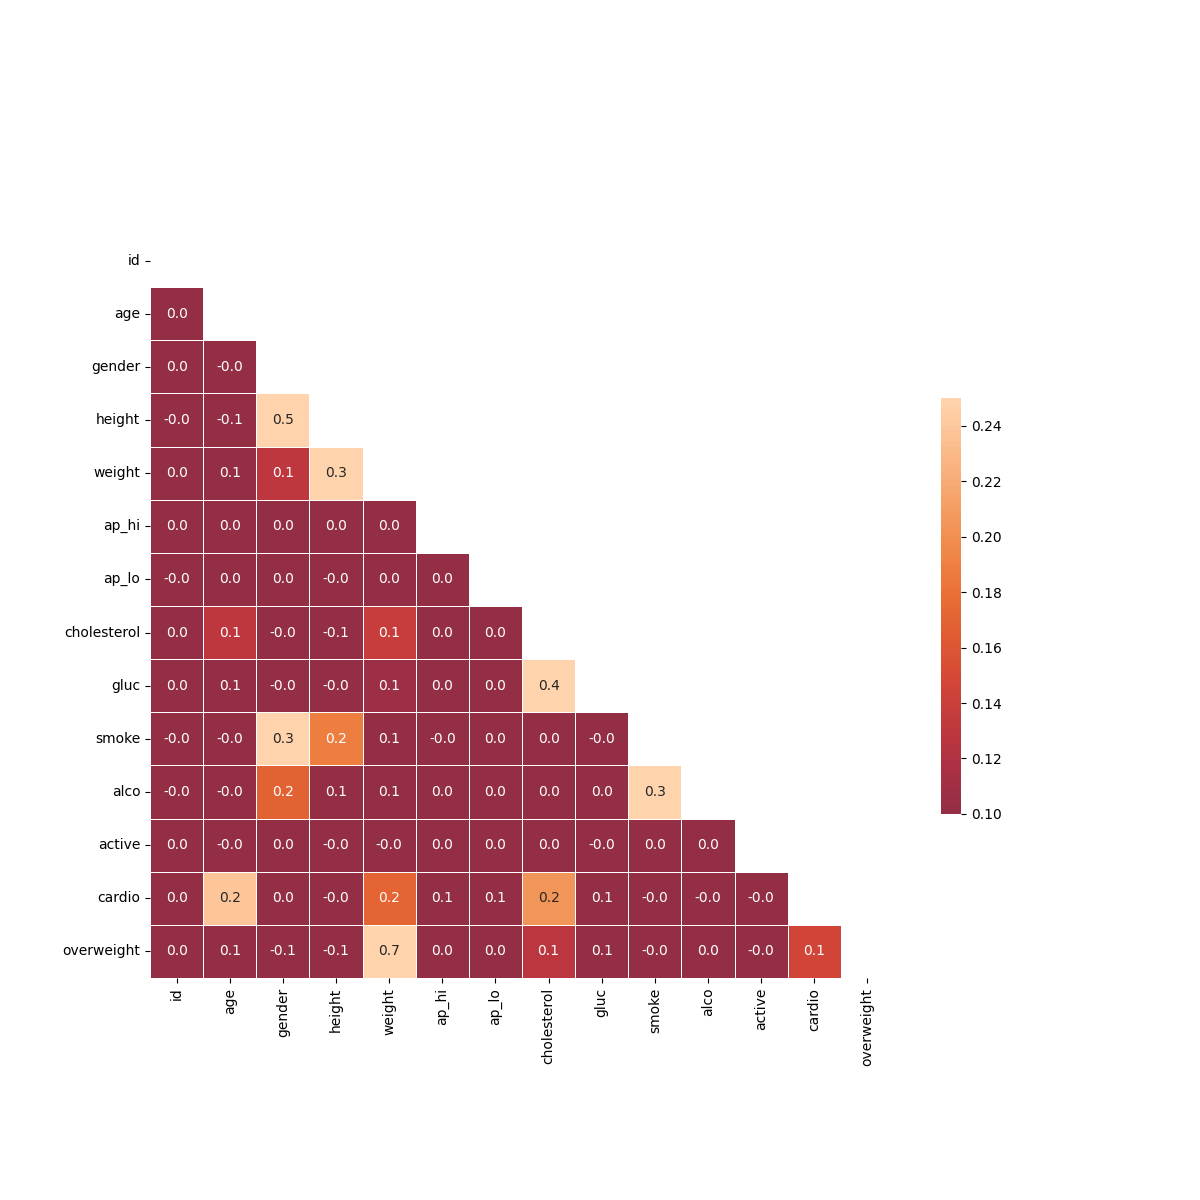
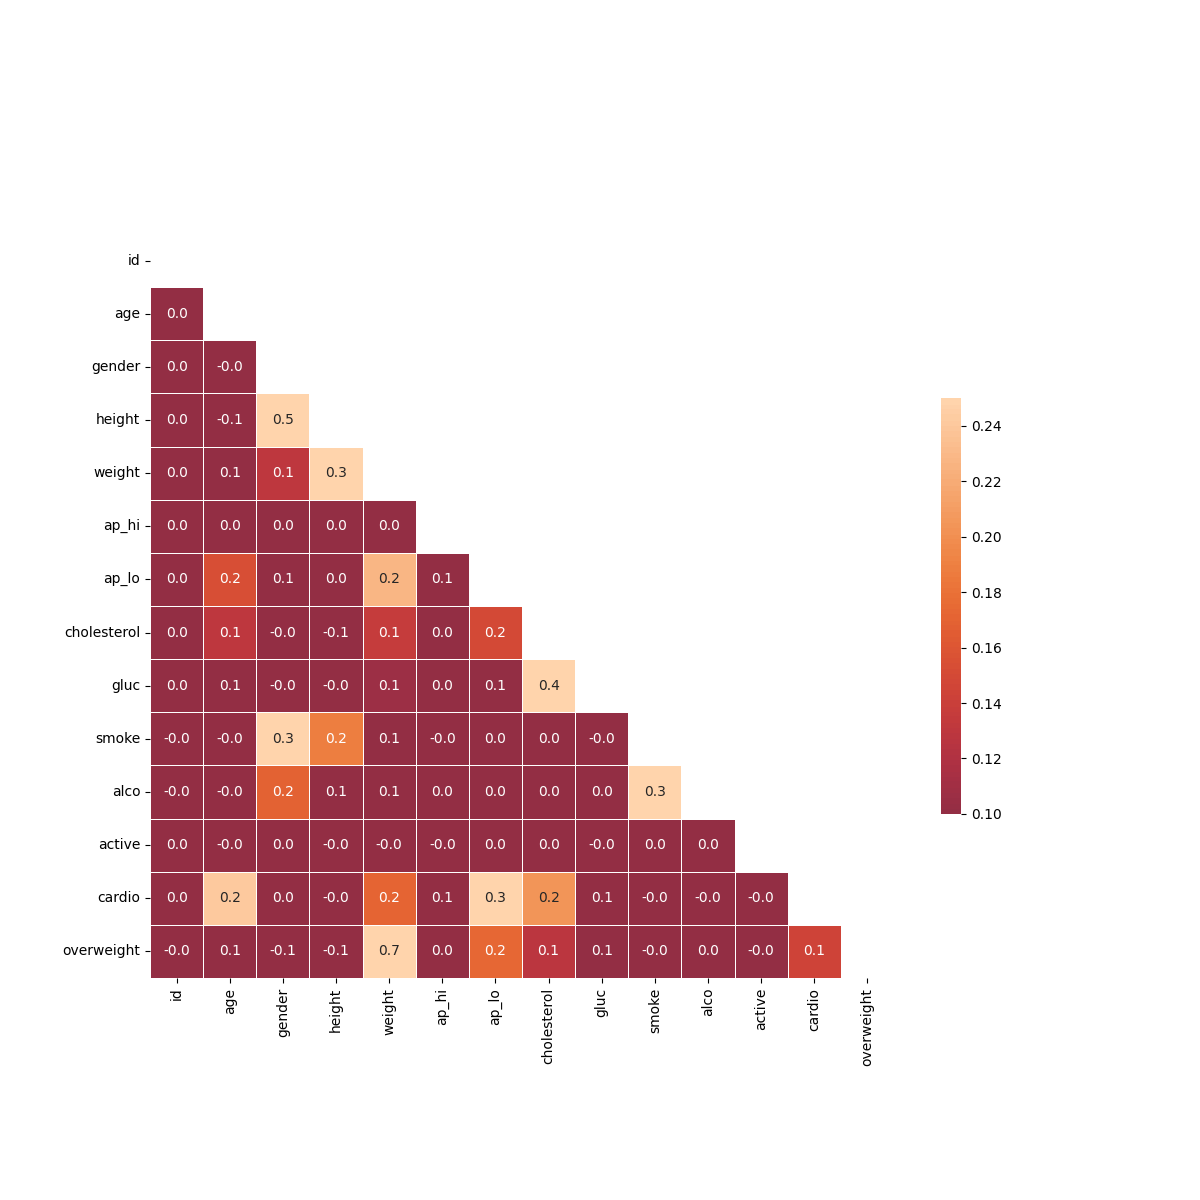
Big fixes with correct result

diff --git a/medical_data_visualizer.py b/medical_data_visualizer.py
@@ -62,8 +62,7 @@ def draw_heat_map():
         Figure: Returns the heatmap that was created
     """
     # Clean data
-    df_heat = df[df["ap_lo"] <= df["ap_hi"]]
-    df_heat = df[(df["height"] >= df["height"].quantile(0.025)) & (df["height"] <= df["height"].quantile(
+    df_heat = df[(df["ap_lo"] <= df["ap_hi"]) & (df["height"] >= df["height"].quantile(0.025)) & (df["height"] <= df["height"].quantile(
         0.975)) & (df["weight"] >= df["weight"].quantile(0.025)) & (df["weight"] <= df["weight"].quantile(0.975))]
 
     # Finds the correlation matrix
